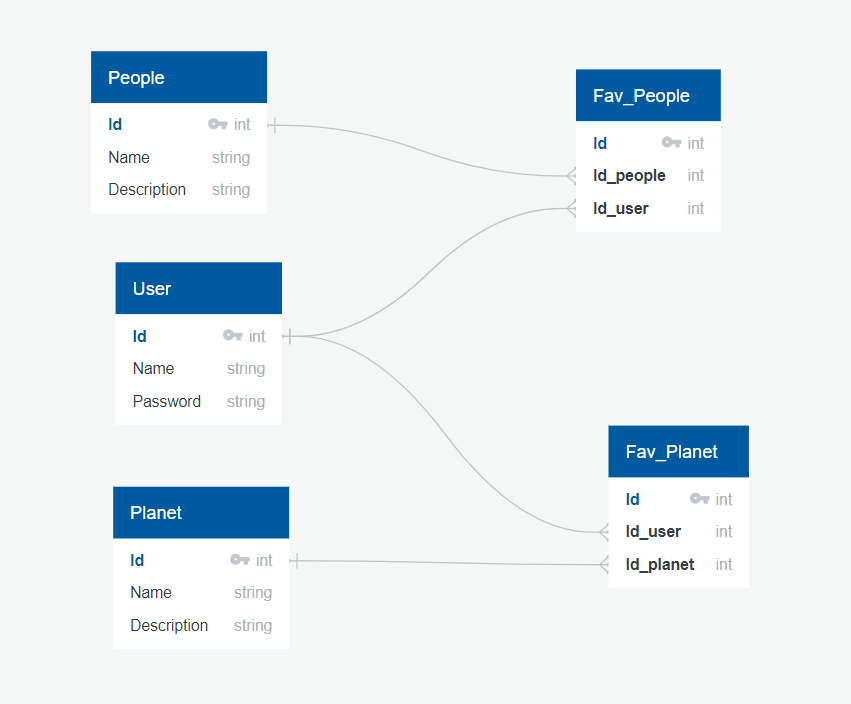
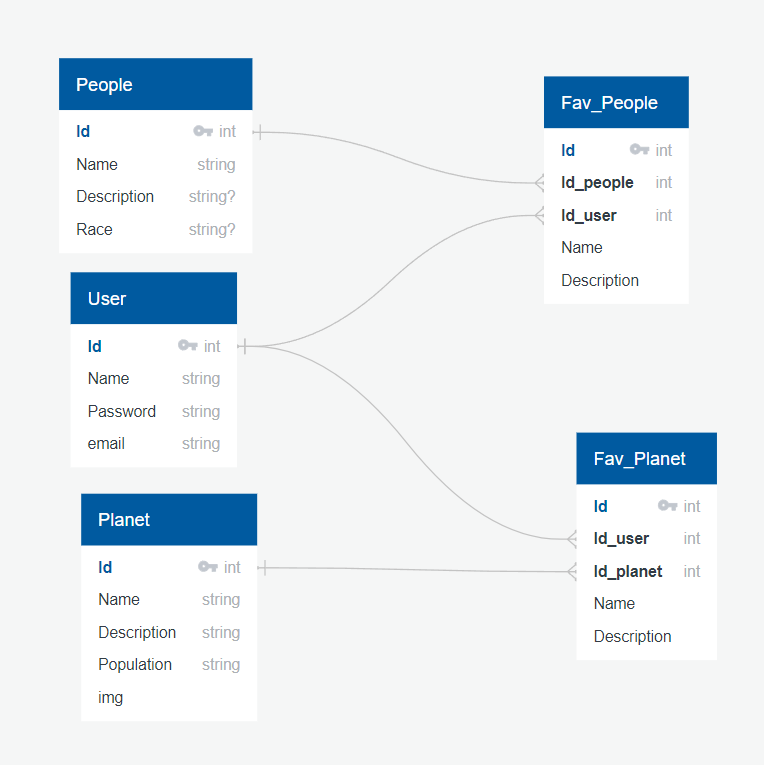
entregaa

diff --git a/src/models.py b/src/models.py
@@ -13,6 +13,7 @@ class User(Base):
     id = Column(Integer, primary_key=True)
     name = Column(String(250))
     password = Column(String(250))
+    email = Column(String(250))
 
 class People(Base):
     __tablename__ = 'people'
@@ -20,6 +21,7 @@ class People(Base):
     id = Column(Integer, primary_key=True)
     name = Column(String(250))
     description = Column(String(250))
+    race = Column(String(250), nullable=False)
 
 class Planets(Base):
     __tablename__ = 'planets'
@@ -27,6 +29,8 @@ class Planets(Base):
     id = Column(Integer, primary_key=True)
     name = Column(String(250))
     description = Column(String(250))
+    population = Column(String(250))
+    img = Column(String(250))
 
 class Fav_people(Base):
     __tablename__ = 'fav_people'
@@ -36,6 +40,8 @@ class Fav_people(Base):
     people = relationship(People)
     id_user = Column(Integer, ForeignKey('user.id'))
     user = relationship(User)
+    name = Column(String(250))
+    description = Column(String(250))
 
 class Fav_planets(Base):
     __tablename__ = 'fav_planets'
@@ -45,6 +51,8 @@ class Fav_planets(Base):
     planets = relationship(Planets)
     id_user = Column(Integer, ForeignKey('user.id'))
     user = relationship(User)
+    name = Column(String(250))
+    description = Column(String(250))
 
 
 
